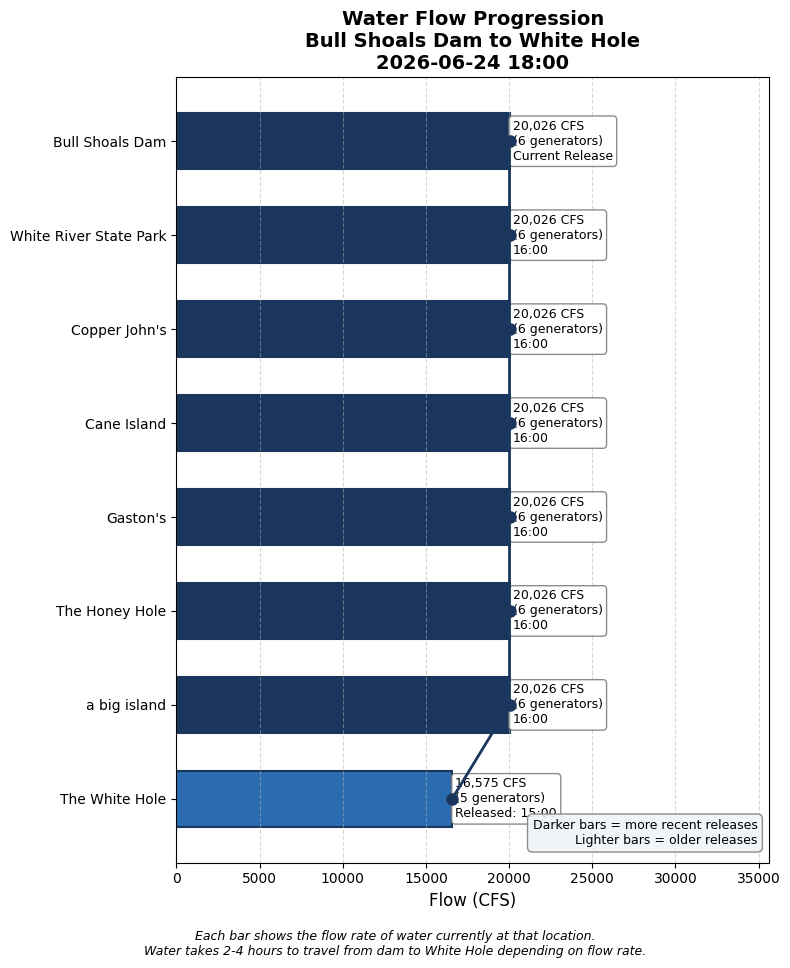
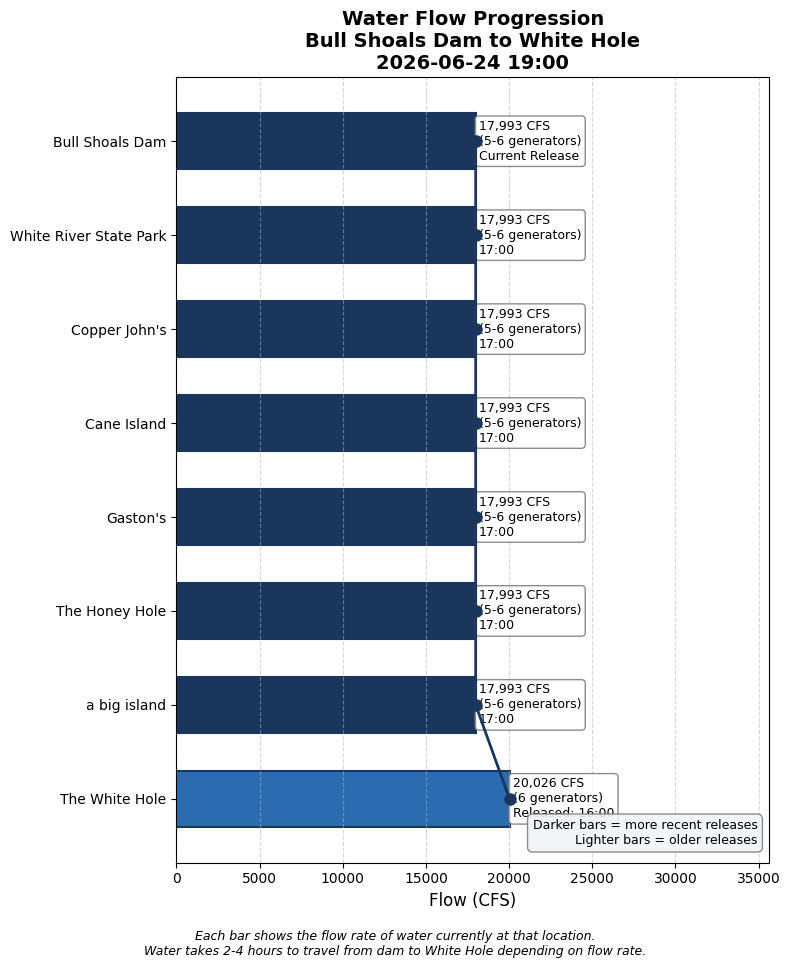
Update water conditions 2026-06-24 19:00

Changed region(s): [[0.5468, 0.093, 0.7899, 0.8678]]

diff --git a/white_hole_conditions.html b/white_hole_conditions.html
@@ -3,7 +3,7 @@
 <head>
     <meta charset="UTF-8">
     <meta name="viewport" content="width=device-width, initial-scale=1.0">
-    <title>White Hole Conditions - 2026-06-24 18:00</title>
+    <title>White Hole Conditions - 2026-06-24 19:00</title>
     <style>
         body {
             font-family: -apple-system, BlinkMacSystemFont, 'Segoe UI', Roboto, sans-serif;
@@ -148,20 +148,20 @@
 </head>
 <body>
     <h1>White Hole Current Conditions</h1>
-    <p class="subtitle">Wednesday, June 24, 2026 at 06:00 PM</p>
+    <p class="subtitle">Wednesday, June 24, 2026 at 07:00 PM</p>
 
     <!-- HEADLINE BANNER -->
     <div class="headline-banner">
         <div class="main-status">🚫 NO WADING — Water too high for safe wading</div>
-        <div class="forecast-status">⏱ RISING WATER arriving in ~3 minutes</div>
+        <div class="forecast-status">➡ STABLE CONDITIONS expected</div>
         
     </div>
 
     <!-- CURRENT CONDITIONS -->
     <div class="current-conditions">
         <h3>Current Conditions at White Hole</h3>
-        <div class="flow-display">16,575 CFS</div>
-        <div class="generator-display">Equivalent to 5 generators</div>
+        <div class="flow-display">20,026 CFS</div>
+        <div class="generator-display">Equivalent to 6 generators</div>
         <div class="condition-pills">
             <span class="pill wading">No Wading</span>
             <span class="pill boating">High Water</span>
@@ -189,6 +189,14 @@
                 <tr><td colspan="3" style="padding: 8px 10px; font-size: 0.8em; font-weight: bold; color: #6b46c1; text-transform: uppercase; letter-spacing: 0.05em; background-color: #f3e8ff;">Scheduled (SWPA forecast)</td></tr>
                 
                     <tr style="background-color: #faf5ff; ">
+                        <td style="padding: 10px; font-weight: bold;">10 PM</td>
+                        <td style="padding: 10px;">7,002 CFS<br><small style="color: #666;">(2-3 generators: 6752 generation + 250 min flow)</small></td>
+                        <td style="padding: 10px;">~12:54 AM
+                            <span style="display: inline-block; margin-left: 6px; padding: 2px 8px; border-radius: 12px; font-size: 0.8em; background-color: #fee2e2; color: #991b1b;">No Wading</span>
+                        </td>
+                    </tr>
+                
+                    <tr style="background-color: #faf5ff; ">
                         <td style="padding: 10px; font-weight: bold;">9 PM</td>
                         <td style="padding: 10px;">10,378 CFS<br><small style="color: #666;">(3-4 generators: 10128 generation + 250 min flow)</small></td>
                         <td style="padding: 10px;">~11:37 PM
@@ -212,33 +220,25 @@
                         </td>
                     </tr>
                 
-                    <tr style="background-color: #faf5ff; ">
-                        <td style="padding: 10px; font-weight: bold;">6 PM</td>
-                        <td style="padding: 10px;">20,506 CFS<br><small style="color: #666;">(6-7 generators: 20256 generation + 250 min flow)</small></td>
-                        <td style="padding: 10px;">~8:01 PM
-                            <span style="display: inline-block; margin-left: 6px; padding: 2px 8px; border-radius: 12px; font-size: 0.8em; background-color: #fee2e2; color: #991b1b;">No Wading</span>
-                        </td>
-                    </tr>
-                
             
                     
                 <tr><td colspan="3" style="padding: 8px 10px; font-size: 0.8em; font-weight: bold; color: #2b6cb0; text-transform: uppercase; letter-spacing: 0.05em; background-color: #ebf8ff;">Actual (dam readings)</td></tr>
                 
                     <tr style="background-color: #ebf8ff;">
-                        <td style="padding: 10px; font-weight: bold;">4:00 PM</td>
-                        <td style="padding: 10px;">20,026 CFS<br><small style="color: #666;">(6 generators)</small></td>
-                        <td style="padding: 10px;"><span style="color: #2b6cb0;">→ Arrives ~6:03 PM (in 3 min)</span></td>
+                        <td style="padding: 10px; font-weight: bold;">5:00 PM</td>
+                        <td style="padding: 10px;">17,993 CFS<br><small style="color: #666;">(5-6 generators)</small></td>
+                        <td style="padding: 10px;"><span style="color: #2b6cb0;">→ Arrives ~7:09 PM (in 9 min)</span></td>
                     </tr>
                 
                     <tr style="background-color: #e6fffa;">
-                        <td style="padding: 10px; font-weight: bold;">3:00 PM</td>
-                        <td style="padding: 10px;">16,575 CFS<br><small style="color: #666;">(5 generators)</small></td>
+                        <td style="padding: 10px; font-weight: bold;">4:00 PM</td>
+                        <td style="padding: 10px;">20,026 CFS<br><small style="color: #666;">(6 generators)</small></td>
                         <td style="padding: 10px;"><span style="color: #319795; font-weight: bold;">← AT WHITE HOLE NOW</span></td>
                     </tr>
                 
                     <tr style="">
-                        <td style="padding: 10px; font-weight: bold;">11:00 AM</td>
-                        <td style="padding: 10px;">8,010 CFS<br><small style="color: #666;">(2-3 generators)</small></td>
+                        <td style="padding: 10px; font-weight: bold;">12:00 PM</td>
+                        <td style="padding: 10px;">10,450 CFS<br><small style="color: #666;">(3-4 generators)</small></td>
                         <td style="padding: 10px;"><span style="color: #718096;">passed</span></td>
                     </tr>
                 
@@ -268,9 +268,9 @@
         </summary>
         <div style="padding: 15px;">
             <ul>
-                <li>Latest dam reading: 20,026 CFS at 2026-06-24 16:00</li>
-                <li>Travel time to White Hole: 2.2 hours at current flow</li>
-                <li>White Hole conditions based on dam reading from: 2026-06-24 15:00</li>
+                <li>Latest dam reading: 17,993 CFS at 2026-06-24 17:00</li>
+                <li>Travel time to White Hole: 2.1 hours at current flow</li>
+                <li>White Hole conditions based on dam reading from: 2026-06-24 16:00</li>
             </ul>
         </div>
     </details>
@@ -292,6 +292,13 @@
                     </thead>
                     <tbody>
                         
+                <tr style="border-bottom: 1px solid #eee;">
+                    <td style="padding: 8px;">2026-06-24 17:00</td>
+                    <td style="padding: 8px; text-align: right;">17993</td>
+                    <td style="padding: 8px; text-align: right;">5.5</td>
+                    <td style="padding: 8px; text-align: right;">2.2</td>
+                </tr>
+                
                 <tr style="border-bottom: 1px solid #eee;">
                     <td style="padding: 8px;">2026-06-24 16:00</td>
                     <td style="padding: 8px; text-align: right;">20026</td>
@@ -355,13 +362,6 @@
                     <td style="padding: 8px; text-align: right;">2.8</td>
                 </tr>
                 
-                <tr style="border-bottom: 1px solid #eee;">
-                    <td style="padding: 8px;">2026-06-24 07:00</td>
-                    <td style="padding: 8px; text-align: right;">6699</td>
-                    <td style="padding: 8px; text-align: right;">2.0</td>
-                    <td style="padding: 8px; text-align: right;">2.9</td>
-                </tr>
-                
                     </tbody>
                 </table>
             </div>
@@ -369,7 +369,7 @@
         
 
     <div class="timestamp">
-        Data retrieved and processed on 2026-06-24 18:00:07
+        Data retrieved and processed on 2026-06-24 19:00:08
     </div>
 </body>
 </html>
